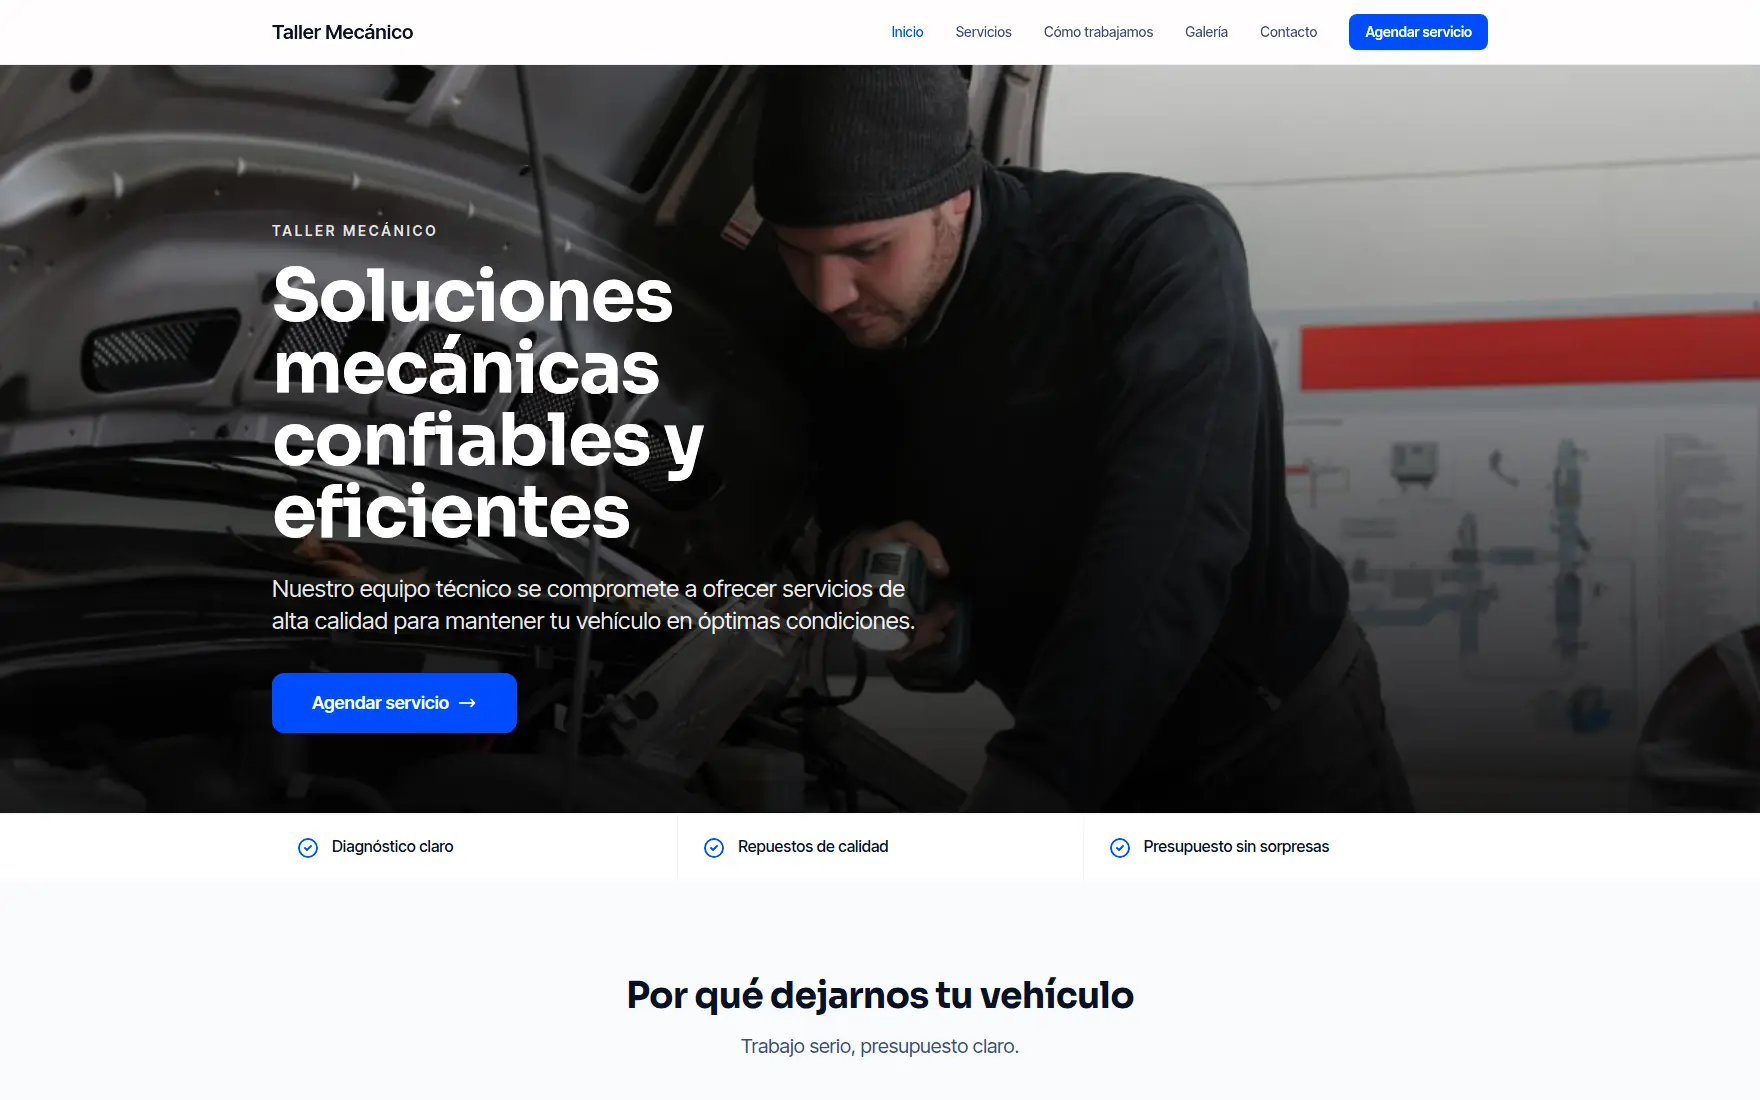
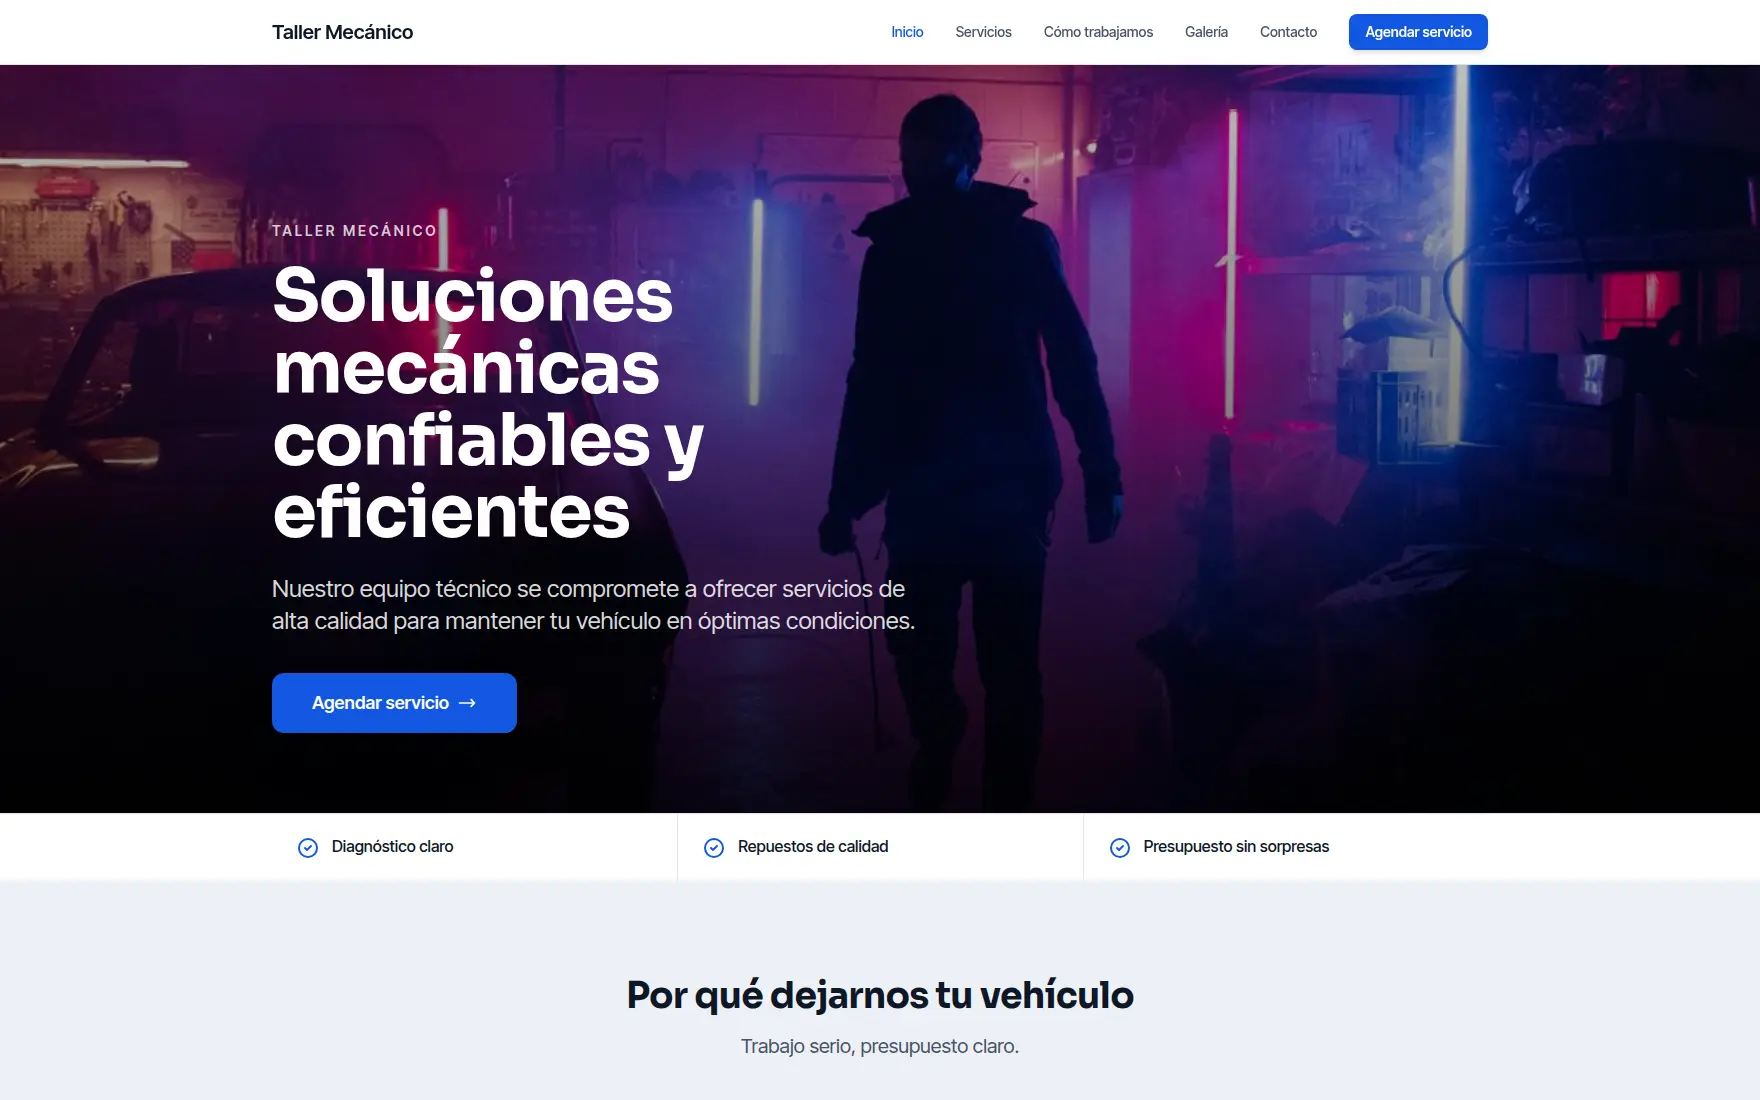
polish(demos): dynamic neon-lit hero for taller mecanico
Swap the muted under-hood hero for the cinematic neon garage shot;
move the old hero into the gallery slot so no photo repeats. Refresh
the thumbnail to match.

diff --git a/public/demos/taller/index.html b/public/demos/taller/index.html
@@ -169,7 +169,7 @@ function toggleMobileMenu() {
 }
 </script>
 <main><section id="inicio">
-    <div class="relative min-h-[68vh] flex items-end bg-gray-900 bg-cover bg-center" style="background-image:url('https://images.pexels.com/photos/3807277/pexels-photo-3807277.jpeg?auto=compress&cs=tinysrgb&w=1200');">
+    <div class="relative min-h-[68vh] flex items-end bg-gray-900 bg-cover bg-center" style="background-image:url('https://images.pexels.com/photos/4488636/pexels-photo-4488636.jpeg?auto=compress&cs=tinysrgb&w=1200');">
         <div class="absolute inset-0 bg-gradient-to-t from-black/85 via-black/50 to-black/25"></div>
         <div class="relative max-w-7xl mx-auto px-4 sm:px-6 lg:px-8 py-20 w-full">
             <div class="max-w-3xl">
@@ -290,7 +290,7 @@ function toggleMobileMenu() {
             
         </div>
         <div class="grid grid-cols-2 md:grid-cols-4 auto-rows-[160px] md:auto-rows-[200px] gap-4">
-            <div class="md:col-span-2 md:row-span-2 overflow-hidden rounded-2xl group"><img src="https://images.pexels.com/photos/4116193/pexels-photo-4116193.jpeg?auto=compress&cs=tinysrgb&w=800" alt="El taller 1" loading="lazy" class="w-full h-full object-cover aspect-square transition-transform duration-700 group-hover:scale-105"></div><div class=" overflow-hidden rounded-2xl group"><img src="https://images.pexels.com/photos/3806288/pexels-photo-3806288.jpeg?auto=compress&cs=tinysrgb&w=800" alt="El taller 2" loading="lazy" class="w-full h-full object-cover aspect-square transition-transform duration-700 group-hover:scale-105"></div><div class=" overflow-hidden rounded-2xl group"><img src="https://images.pexels.com/photos/4488636/pexels-photo-4488636.jpeg?auto=compress&cs=tinysrgb&w=800" alt="El taller 3" loading="lazy" class="w-full h-full object-cover aspect-square transition-transform duration-700 group-hover:scale-105"></div>
+            <div class="md:col-span-2 md:row-span-2 overflow-hidden rounded-2xl group"><img src="https://images.pexels.com/photos/4116193/pexels-photo-4116193.jpeg?auto=compress&cs=tinysrgb&w=800" alt="El taller 1" loading="lazy" class="w-full h-full object-cover aspect-square transition-transform duration-700 group-hover:scale-105"></div><div class=" overflow-hidden rounded-2xl group"><img src="https://images.pexels.com/photos/3806288/pexels-photo-3806288.jpeg?auto=compress&cs=tinysrgb&w=800" alt="El taller 2" loading="lazy" class="w-full h-full object-cover aspect-square transition-transform duration-700 group-hover:scale-105"></div><div class=" overflow-hidden rounded-2xl group"><img src="https://images.pexels.com/photos/3807277/pexels-photo-3807277.jpeg?auto=compress&cs=tinysrgb&w=800" alt="El taller 3" loading="lazy" class="w-full h-full object-cover aspect-square transition-transform duration-700 group-hover:scale-105"></div>
         </div>
     </div>
 </section>